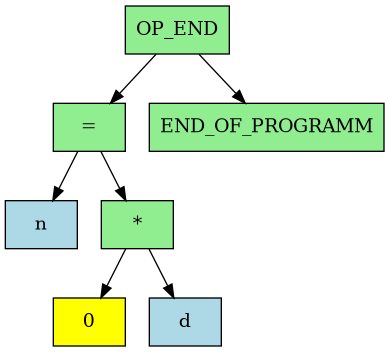
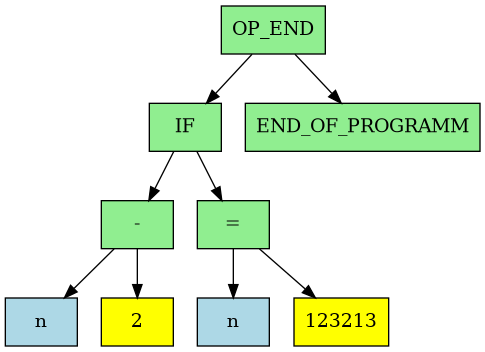
Добавил бинарный if

diff --git a/back_end.cpp b/back_end.cpp
@@ -35,6 +35,8 @@ static void print_div(back_end_base_t* back_end_base,
                uint8_t transmitter_register, uint8_t receiver_register);
 static void print_mov_reg_to_reg(back_end_base_t* back_end_base,
                uint8_t transmitter_register, uint8_t receiver_register);
+static void print_cmp_reg_and_const(back_end_base_t* back_end_base, uint8_t reg, int value);
+static void print_je(back_end_base_t* back_end_base, unsigned int label_address);
 static void print_end_of_programm(back_end_base_t* back_end_base);
 static void print_asm_lib(FILE* asm_code_address, FILE* byte_code_address);
 
@@ -114,6 +116,8 @@ uint8_t make_node_code(node_t* node, back_end_base_t* back_end_base,
     uint8_t reg_1 = 0xff;
     uint8_t reg_2 = 0xff;
     unsigned int actual_label_number = back_end_base->label_number;
+    uint32_t label_address_1 = 0;
+    uint32_t label_address_2 = 0;
 
     //printf("type = %d\nvalue = %d\n", node->type, node->value.number_value);
 
@@ -214,11 +218,23 @@ uint8_t make_node_code(node_t* node, back_end_base_t* back_end_base,
                 fprintf(asm_code_address, "\tcmp %s, 0\n"
                                           "\tje label_%u\n",
                                           REG_NAMES[reg_1], actual_label_number);
+
+                print_cmp_reg_and_const(back_end_base, reg_1, 0);
+                print_je(back_end_base, 0);
+                label_address_1 = back_end_base->instruction_pointer;
+
                 reg_2 = make_node_code(node->right, back_end_base, byte_code_address, asm_code_address);
                 fprintf(asm_code_address, "label_%u:\n", actual_label_number);
                 fprintf(asm_code_address, "\n");
 
-                free_reg(reg_1);//TODO можно ли освободить раньше?
+                label_address_2 = back_end_base->instruction_pointer;
+                back_end_base->instruction_pointer = label_address_1 - 4;
+
+                print_const_4_byte(back_end_base, label_address_2 - label_address_1);
+
+                back_end_base->instruction_pointer = label_address_2;
+
+                free_reg(reg_1);
                 free_reg(reg_2);
                 return 0x0;
             case WHILE:
@@ -520,6 +536,36 @@ void print_end_of_programm(back_end_base_t* back_end_base)
     back_end_base->byte_code[back_end_base->instruction_pointer + 9] = 0x05;
 
     back_end_base->instruction_pointer += 10;
+
+    return;
+}
+
+void print_cmp_reg_and_const(back_end_base_t* back_end_base, uint8_t reg, int value)
+{
+    assert(back_end_base);
+
+    back_end_base->byte_code[back_end_base->instruction_pointer] = 0x48;
+    back_end_base->byte_code[back_end_base->instruction_pointer + 1] = 0x81;
+
+    back_end_base->instruction_pointer += 2;
+
+    print_reg_to_reg(back_end_base, reg, 7);
+
+    print_const_4_byte(back_end_base, value);
+
+    return;
+}
+
+void print_je(back_end_base_t* back_end_base, unsigned int label_address)
+{
+    assert(back_end_base);
+
+    back_end_base->byte_code[back_end_base->instruction_pointer] = 0x0f;
+    back_end_base->byte_code[back_end_base->instruction_pointer + 1] = 0x84;
+
+    back_end_base->instruction_pointer += 2;
+
+    print_const_4_byte(back_end_base, label_address);
 
     return;
 }
